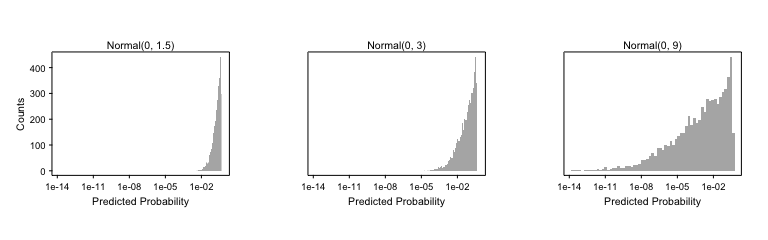
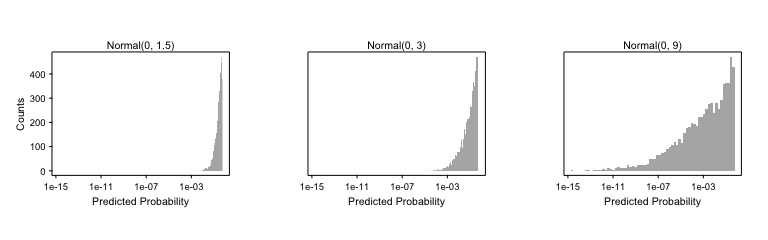
update README

diff --git a/README.md b/README.md
@@ -18,8 +18,9 @@ Let's look at a simple example. Suppose we estimate a simple model explaining go
 
 ```r
 data(politics_and_need)
-m <- glm(oppose_expansion ~ gop_governor + percent_uninsured, 
-         family = binomial, data = politics_and_need)
+f <- oppose_expansion ~ gop_governor + percent_favorable_aca + gop_leg + percent_uninsured + 
+    bal2012 + multiplier + percent_nonwhite + percent_metro
+m <- glm(f, family = binomial, data = politics_and_need)
 
 library(texreg)  # for screenreg, which neatly prints the results
 ```
@@ -38,22 +39,34 @@ screenreg(m)
 
 ```
 ## 
-## ============================
-##                    Model 1  
-## ----------------------------
-## (Intercept)          -20.92 
-##                    (2370.03)
-## gop_governor          19.46 
-##                    (2370.03)
-## percent_uninsured      0.10 
-##                       (0.10)
-## ----------------------------
-## AIC                   46.33 
-## BIC                   52.07 
-## Log Likelihood       -20.17 
-## Deviance              40.33 
-## Num. obs.             50    
-## ============================
+## ================================
+##                        Model 1  
+## --------------------------------
+## (Intercept)              -19.39 
+##                        (3224.41)
+## gop_governor              20.35 
+##                        (3224.40)
+## percent_favorable_aca      0.01 
+##                           (0.09)
+## gop_leg                    2.43 
+##                           (1.48)
+## percent_uninsured          0.11 
+##                           (0.27)
+## bal2012                    0.00 
+##                           (0.01)
+## multiplier                -0.32 
+##                           (1.08)
+## percent_nonwhite           0.05 
+##                           (0.08)
+## percent_metro             -0.08 
+##                           (0.05)
+## --------------------------------
+## AIC                       49.71 
+## BIC                       66.92 
+## Log Likelihood           -15.86 
+## Deviance                  31.71 
+## Num. obs.                 50    
+## ================================
 ## *** p < 0.001, ** p < 0.01, * p < 0.05
 ```
 
@@ -97,7 +110,8 @@ data(politics_and_need)
 normal_3 <- rnorm(10000, sd = 3)
 
 # model formula
-f <- oppose_expansion ~ gop_governor + percent_favorable_aca + percent_uninsured
+f <- oppose_expansion ~ gop_governor + percent_favorable_aca + gop_leg + percent_uninsured + 
+    bal2012 + multiplier + percent_nonwhite + percent_metro
 
 # informative prior
 pppd_inf <- calc_pppd(f, data = politics_and_need, prior_sims = normal_3,     
@@ -113,17 +127,19 @@ print(pppd_inf)
 
 ```
 ## 
-## Model:	oppose_expansion ~ gop_governor + percent_favorable_aca + percent_uninsured
+## Model:	oppose_expansion ~ gop_governor + percent_favorable_aca + gop_leg + 
+##     percent_uninsured + bal2012 + multiplier + percent_nonwhite + 
+##     percent_metro
 ## Prior for gop_governor:	Normal(0, 3)
 ## 
 ##    percentile	predicted probability	first-difference	risk-ratio	
-##    1%		0			0.009			1.02			
-##    5%		0.002			0.049			1.13			
-##    25%		0.024			0.206			1.925			
-##    50%		0.087			0.341			4.908			
-##    75%		0.223			0.405			18.09			
-##    95%		0.379			0.426			189.4			
-##    99%		0.42			0.428			1384			
+##    1%		0.001			0.011			1.02			
+##    5%		0.003			0.049			1.101			
+##    25%		0.035			0.234			1.787			
+##    50%		0.126			0.406			4.232			
+##    75%		0.298			0.497			15.32			
+##    95%		0.483			0.528			162.4			
+##    99%		0.521			0.531			965.2			
 ```
 
 That looks reasonable. There is an even chance of the probabilty of opposition falling above and below 0.09, which seems about right. Also, there is a 25% chance that the probability falls below 0.02, which also seems like a reasonable prior belief.
@@ -156,7 +172,7 @@ mean(pppd_inf$pr < 0.01)
 ```
 
 ```
-## [1] 0.1464
+## [1] 0.1156
 ```
 
 ```r
@@ -164,7 +180,7 @@ mean(pppd_inf$pr < 0.001)
 ```
 
 ```
-## [1] 0.02704
+## [1] 0.01778
 ```
 
 From this we can see that there is a probability of 0.15 that less than 1% of Democratic governors oppose the expansion and a probability of 0.025 that less than 0.1% of Democratic governors oppose the expansion. Again, these seem reasonable.
@@ -204,3 +220,77 @@ plot(pppds, log_scale = TRUE, xticklab = "sci_notation")
 ```
 
 ![plot of chunk sci_notation](sci_notation.png) 
+
+Now that we've chosen the three priors, we can do the MCMC using the `sim_pos_normal()` functions.
+
+
+```r
+# enthusiastic and skeptical prior
+post_inf <- sim_post_normal(f, data = politics_and_need, 
+                            sep_var = "gop_governor", sd = 3, 
+                            n_sims = 1000)
+```
+
+```
+## 
+## Computing proposal distribution...
+## 
+## Running 3 chains in parallel of 1500 iterations each--this may take a while...
+## Finished running chains!
+## 
+## Checking convergence...
+## 
+## ######## WARNING: #########
+## 
+## The multivariate R-hat statistic of 1.15 suggests that the chains have NOT converged.
+```
+
+```r
+post_enth <- sim_post_normal(f, data = politics_and_need, 
+                            sep_var = "gop_governor", sd = 9, 
+                            n_sims = 1000)
+```
+
+```
+## 
+## Computing proposal distribution...
+## 
+## Running 3 chains in parallel of 1500 iterations each--this may take a while...
+## Finished running chains!
+## 
+## Checking convergence...
+## 
+## ######## WARNING: #########
+## 
+## The multivariate R-hat statistic of 1.2 suggests that the chains have NOT converged.
+```
+
+```r
+post_skep <- sim_post_normal(f, data = politics_and_need, 
+                            sep_var = "gop_governor", sd = 1.5, 
+                            n_sims = 1000)
+```
+
+```
+## 
+## Computing proposal distribution...
+## 
+## Running 3 chains in parallel of 1500 iterations each--this may take a while...
+## Finished running chains!
+## 
+## Checking convergence...
+## 
+## ######## WARNING: #########
+## 
+## The multivariate R-hat statistic of 1.23 suggests that the chains have NOT converged.
+```
+
+And we can compare the coefficients for `gop_governor` to see how the priors affected the inferences.
+
+
+```r
+posts <- combine_post(post_skep, post_inf, post_enth)
+plot(posts, var_name = "gop_governor")
+```
+
+![plot of chunk mcmc](mcmc.png) 
